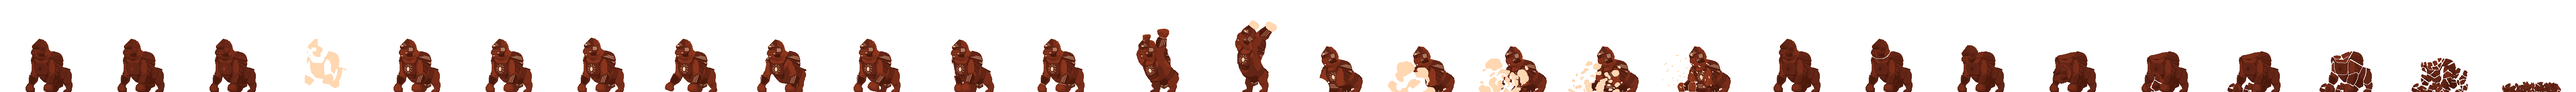
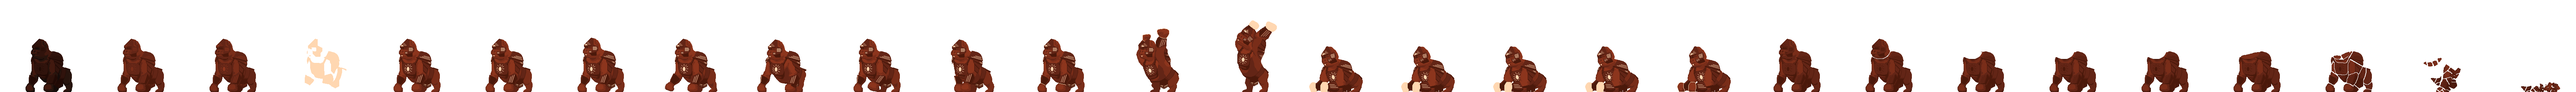
Gorila Color estatua

diff --git a/src/js/gorila.js b/src/js/gorila.js
@@ -71,7 +71,7 @@ class GreatGorila extends Enemy {
 
     WakeUp() {
         this.awake = true;
-        this.anims.play('gorilaWakeUp', true);
+        this.anims.play('statuGorila', true);
         this.healthBar = new StatusBar(this.scene, this, 'GREAT GORILA GUARDIAN');
         this.body.enable = true;
         this.setDepth(2);
